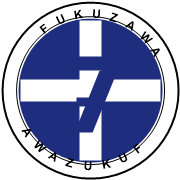
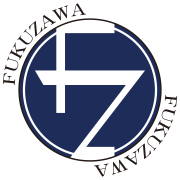
ネットワーク公開設定とアイコン更新

diff --git a/icon-preview.html b/icon-preview.html
@@ -1,0 +1,129 @@
+<!DOCTYPE html>
+<html>
+<head>
+  <meta charset="UTF-8">
+  <title>アイコンサンプル</title>
+  <style>
+    body { background: #eee; display: flex; flex-direction: column; align-items: center; gap: 40px; padding: 40px; font-family: sans-serif; }
+    .box { background: white; padding: 30px 40px; border-radius: 8px; box-shadow: 0 2px 12px rgba(0,0,0,.15); }
+    h3 { margin-bottom: 16px; color: #555; font-size: 13px; }
+  </style>
+</head>
+<body>
+
+  <div class="box">
+    <h3>ロゴ（実物サイズ）</h3>
+    <svg id="logo" xmlns="http://www.w3.org/2000/svg" style="display:block;"></svg>
+  </div>
+
+  <div class="box">
+    <h3>アプリヘッダーサイズ（32px 円形）</h3>
+    <div style="width:32px;height:32px;border-radius:50%;overflow:hidden;border:1px solid #ddd;">
+      <svg id="icon32" xmlns="http://www.w3.org/2000/svg" width="32" height="32" style="display:block;"></svg>
+    </div>
+  </div>
+
+  <div class="box">
+    <h3>ホーム画面アイコンサイズ（60px）</h3>
+    <div style="width:60px;height:60px;border-radius:12px;overflow:hidden;border:1px solid #ddd;">
+      <svg id="icon60" xmlns="http://www.w3.org/2000/svg" width="60" height="60" style="display:block;"></svg>
+    </div>
+  </div>
+
+<script>
+const NS    = 'http://www.w3.org/2000/svg';
+const NAVY  = '#1e2d7d';
+const BLACK = '#111111';
+
+// ---- レイアウト定数 ----
+const VH       = 155;  // viewBox 高さ
+const TOP_Y    = 62;   // F の上横線 ＝ A の横棒 Y（Aの中間位置）
+const MID_Y    = 108;  // F の中横線 Y
+const BOT_Y    = 150;  // F の左斜め線・下端 Y
+const A_PEAK_Y = 6;    // A の頂点 Y（TOP_Y より大きく上）
+const A_BOT_Y  = 122;  // A の足元 Y
+const DIAG_TX  = 44;   // F の斜め線・上端 X
+const DIAG_BX  = 10;   // F の斜め線・下端 X
+const TEXT_X   = 52;   // UKUZAW テキスト開始 X
+const TEXT_Y   = 132;  // UKUZAW ベースライン Y
+const FS       = 82;   // フォントサイズ
+const SW       = 5;    // 線の太さ
+
+// F の斜め線の傾き（垂直方向/水平方向）
+const F_SLOPE = (BOT_Y - TOP_Y) / (DIAG_TX - DIAG_BX); // (148-38)/(44-10) = 110/34 ≈ 3.24
+
+const logo = document.getElementById('logo');
+
+// ---- UKUZAW テキストを追加して幅を計測 ----
+const kuzawEl = document.createElementNS(NS, 'text');
+kuzawEl.setAttribute('x', TEXT_X);
+kuzawEl.setAttribute('y', TEXT_Y);
+kuzawEl.setAttribute('font-family', "'Arial Black','Arial',sans-serif");
+kuzawEl.setAttribute('font-size', FS);
+kuzawEl.setAttribute('font-weight', '900');
+kuzawEl.setAttribute('font-style', 'italic');
+kuzawEl.setAttribute('fill', BLACK);
+kuzawEl.textContent = 'UKUZAW';
+logo.appendChild(kuzawEl);
+
+requestAnimationFrame(() => {
+  const kb = kuzawEl.getBBox();
+  const kRight = kb.x + kb.width;  // UKUZAW の右端 X
+
+  // ---- A の座標計算 ----
+  // 左脚: F と同じ傾きで (aLx, A_BOT_Y) → (aPx, A_PEAK_Y)
+  const A_V = A_BOT_Y - A_PEAK_Y;         // 縦幅 = 120
+  const aLegH = A_V / F_SLOPE;            // 左脚の水平幅 ≈ 37
+
+  const aLx = kRight + 2;                 // 左足 X
+  const aPx = aLx + aLegH;               // 頂点 X
+  const aRx = aPx + 20;                  // 右足 X（右脚はやや急角度）
+
+  // A の横棒が TOP_Y と交わる右脚上の X を求める
+  // 右脚: (aPx, A_PEAK_Y) → (aRx, A_BOT_Y)
+  const t_cross = (TOP_Y - A_PEAK_Y) / (A_BOT_Y - A_PEAK_Y);
+  const xCrossR = aPx + (aRx - aPx) * t_cross;  // 右脚が TOP_Y と交わる X
+
+  const VW = aRx + 12;
+
+  // ---- 描画ヘルパー ----
+  function mkLine(x1,y1,x2,y2,sw,cap) {
+    const el = document.createElementNS(NS,'line');
+    el.setAttribute('x1',x1); el.setAttribute('y1',y1);
+    el.setAttribute('x2',x2); el.setAttribute('y2',y2);
+    el.setAttribute('stroke', NAVY);
+    el.setAttribute('stroke-width', sw||SW);
+    el.setAttribute('stroke-linecap', cap||'round');
+    return el;
+  }
+
+  // 1. F の左斜め線
+  logo.insertBefore(mkLine(DIAG_BX, BOT_Y, DIAG_TX, TOP_Y, SW+1), kuzawEl);
+
+  // 2. F の上横線 ＋ A の横棒（一本の線で DIAG_TX → xCrossR まで）
+  logo.insertBefore(mkLine(DIAG_TX, TOP_Y, xCrossR, TOP_Y, SW), kuzawEl);
+
+  // 3. F の中横線
+  logo.insertBefore(mkLine(DIAG_TX-10, MID_Y, DIAG_TX+28, MID_Y, SW-1), kuzawEl);
+
+  // 4. A の左脚（F と同角度）
+  logo.appendChild(mkLine(aLx, A_BOT_Y, aPx, A_PEAK_Y, SW+3));
+
+  // 5. A の右脚
+  logo.appendChild(mkLine(aPx, A_PEAK_Y, aRx, A_BOT_Y, SW+3));
+
+  // ---- viewBox・width 確定 ----
+  logo.setAttribute('viewBox', `0 0 ${VW} ${VH}`);
+  logo.setAttribute('width', VW);
+  logo.setAttribute('height', VH);
+
+  // icon32 / icon60 にコピー
+  ['icon32','icon60'].forEach(id => {
+    const el = document.getElementById(id);
+    el.setAttribute('viewBox', `0 0 ${VW} ${VH}`);
+    el.innerHTML = logo.innerHTML;
+  });
+});
+</script>
+</body>
+</html>
